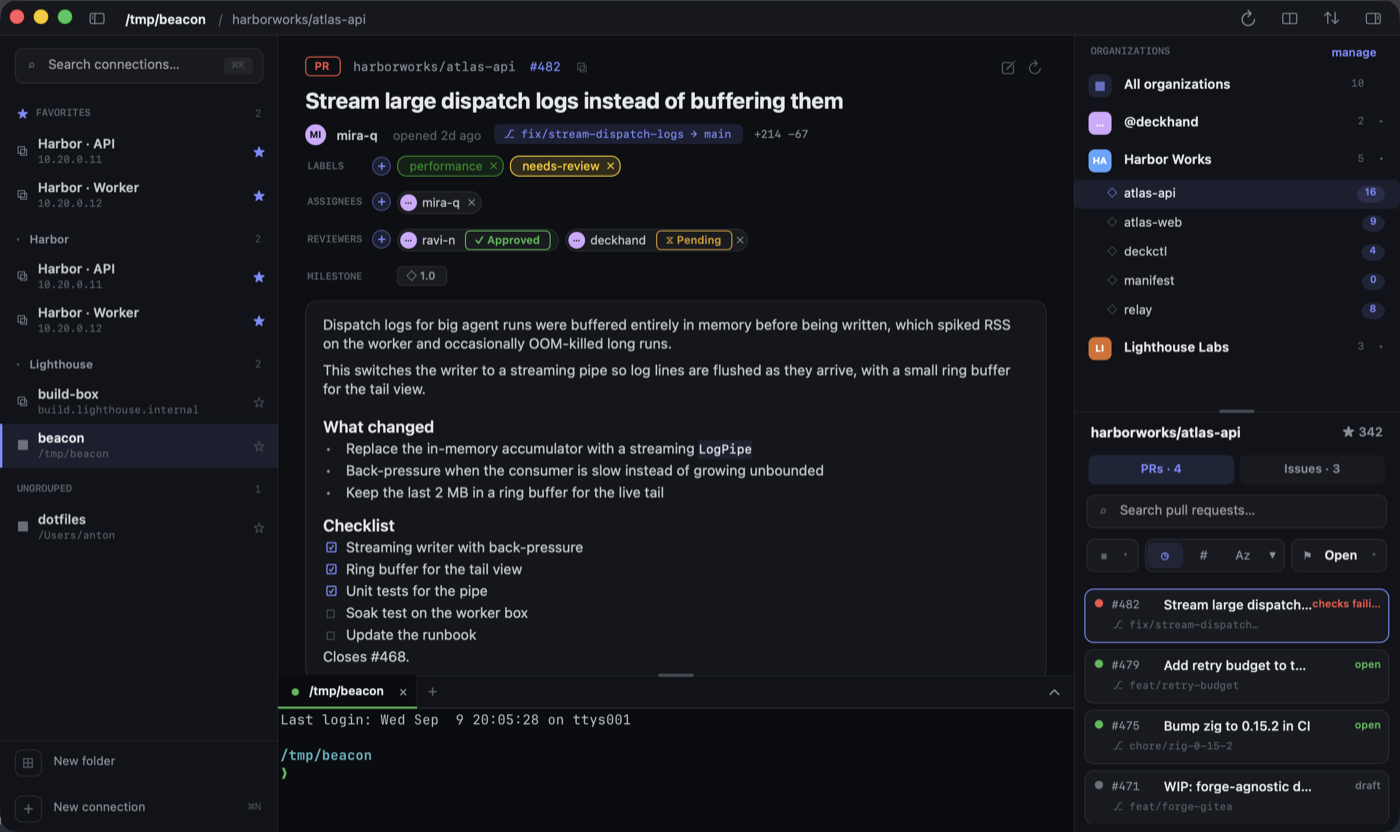
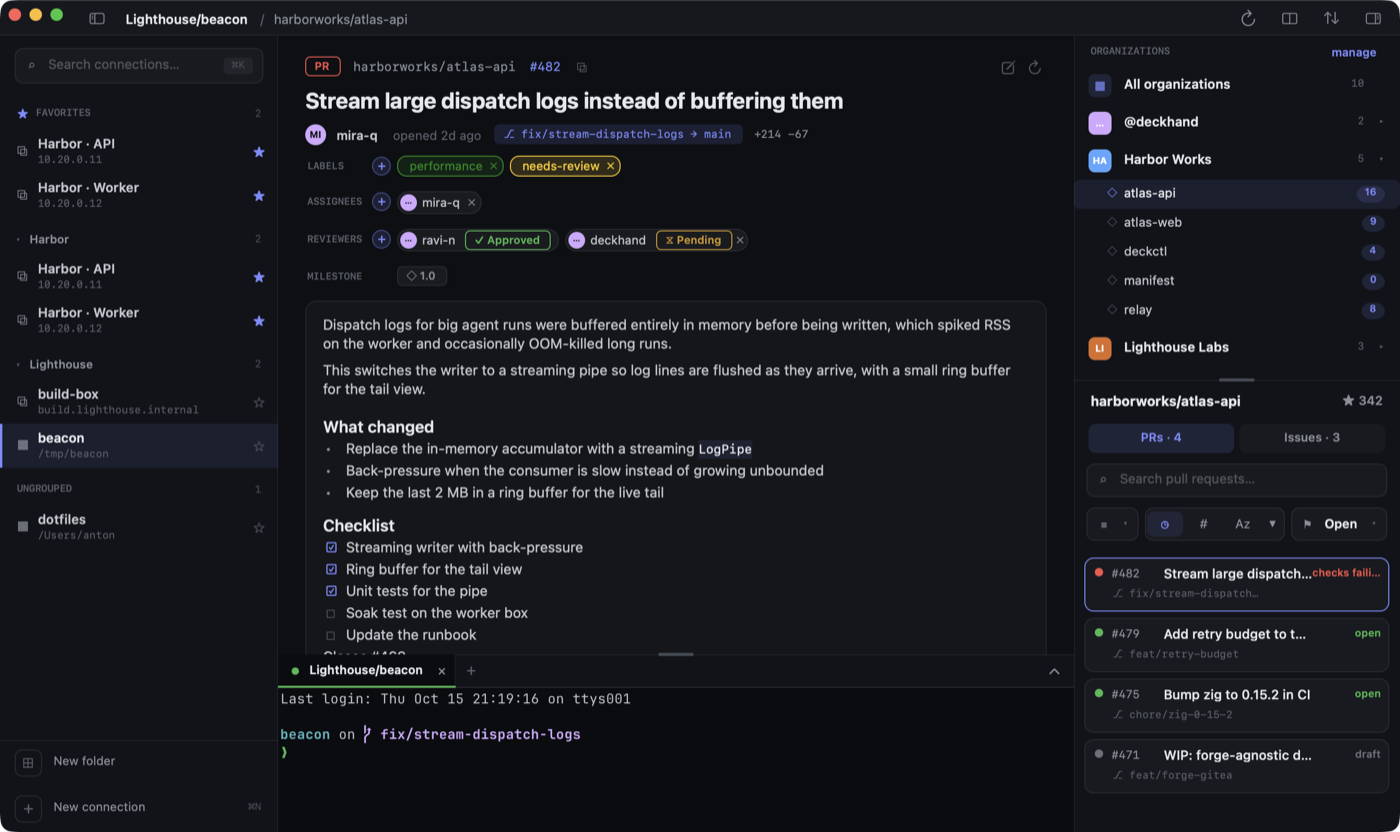
Add Mission Control screenshot and refresh hero in README
Mission Control shipped in e9830f4 without any public screenshot. Recaptured
hero.png from the current build so both README images match.

diff --git a/README.md b/README.md
@@ -15,6 +15,10 @@ with Metal.
 * **Repositories**: a tree of organizations and repositories with their pull requests and issues.
 * **Themes**: Operator, Carbon, Nord, and Daylight.
 * **Terminal**: built in, drawn with Metal, and resizable.
+* **Mission Control**: press ⌃⌘M to see every terminal session as a live tile, each linked to the
+  issue or pull request it works on.
+
+![Mission Control: four live terminal sessions in a two-by-two grid, each linked to an issue or pull request, with a needs-you banner and the tracker of open pull requests and issues.](docs/mission-control.png)
 
 ## Install
 
